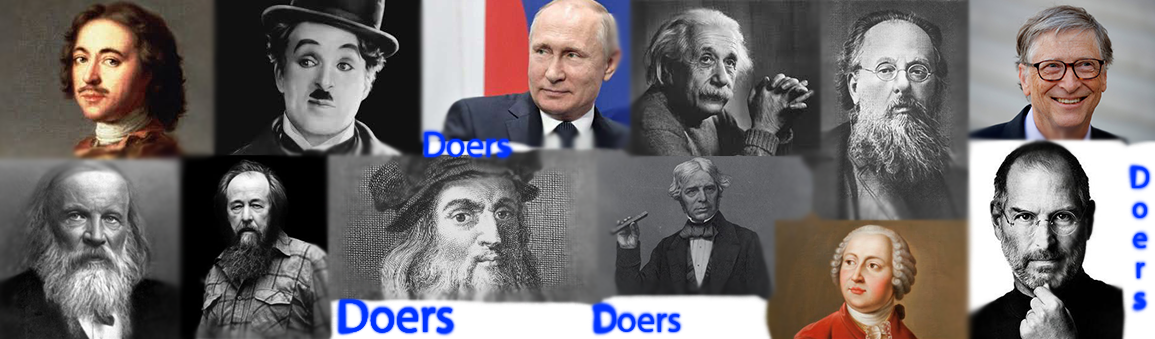
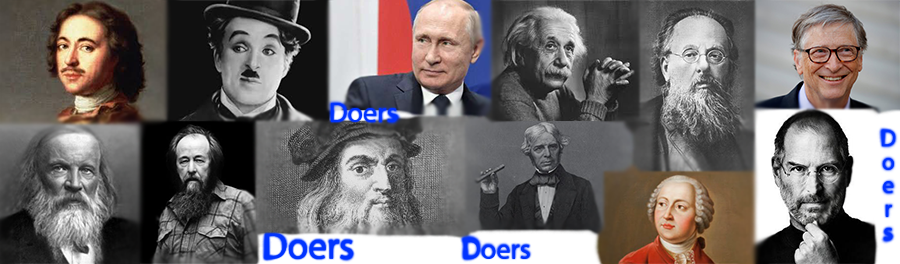
007-demo

diff --git a/src/main/resources/templates/banner.html b/src/main/resources/templates/banner.html
@@ -8,7 +8,7 @@
 </div>
 
 <div th:fragment="bottomBanner" style="margin-top: 30px;">
-    &copy; Школьный проект, Краснознаменск Гимназия №2, 9Б, 2020 Рыльков Вячеслав.
+    &copy; Школьный проект, г.Краснознаменск Гимназия №2, 9Б, 2020 Рыльков Вячеслав.
 </div>
 
 </body>

diff --git a/src/main/resources/static/style.css b/src/main/resources/static/style.css
@@ -1,6 +1,6 @@
 .banner-background-doer {
     background: #000 url(allDoer.png); /* Фоновый цвет и фоновый рисунок*/
     background-repeat: repeat-x; /* Изображение повторяется по горизонтали */
-    height: 340px;
+    height: 265px;
     margin-bottom: 20px;
 }

diff --git a/src/main/java/com/example/demodoerweb/service/DoerService.java b/src/main/java/com/example/demodoerweb/service/DoerService.java
@@ -20,7 +20,7 @@ public class DoerService {
             "    on d.id = q.id_doer\n" +
             " where upper(d.surname) = ?";
 
-    private  static  final String sqlSearchDoer = "select name, surName, id  from doer where surname || name like ?";
+    private  static  final String sqlSearchDoer = "select name, surName, id  from doer where name || surname like ?";
 
     @Autowired
     private JdbcTemplate jdbcTemplate;
